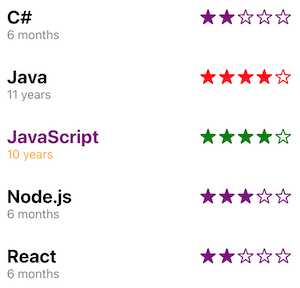
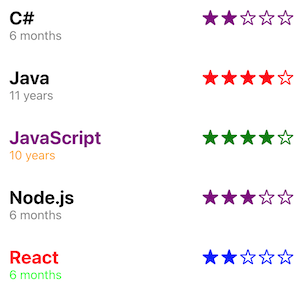
Updated example using hex color codes (published for v1.0.6).

diff --git a/example/src/App.js b/example/src/App.js
@@ -10,7 +10,7 @@ const App = () => {
     <RatingComponent heading="Java" subheading="11 years" rate="4" />
     <RatingComponent heading="JavaScript" subheading="10 years" rate="4" headingColor='purple' subheadingColor='orange' starColor="green" />
     <RatingComponent heading="Node.js" subheading="6 months" rate="3" starColor="purple" />
-    <RatingComponent heading="React" subheading="6 months" rate="2" starColor="purple" />
+    <RatingComponent heading="React" subheading="6 months" rate="2" headingColor='#FF0000' subheadingColor='#00FF00' starColor="#0000FF" />
   </>
 }
 

diff --git a/README.md b/README.md
@@ -25,7 +25,7 @@ class Example extends Component {
         <RatingComponent heading="Java" subheading="11 years" rate="4" />
         <RatingComponent heading="JavaScript" subheading="10 years" rate="4" headingColor='purple' subheadingColor='orange' starColor="green" />
         <RatingComponent heading="Node.js" subheading="6 months" rate="3" starColor="purple" />
-        <RatingComponent heading="React" subheading="6 months" rate="2" starColor="purple" />
+        <RatingComponent heading="React" subheading="6 months" rate="2" headingColor='#FF0000' subheadingColor='#00FF00' starColor="#0000FF" />
     </>
   }
 }
